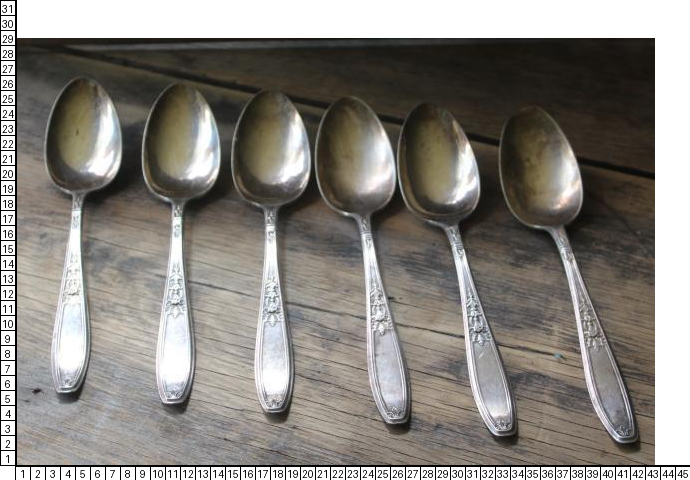
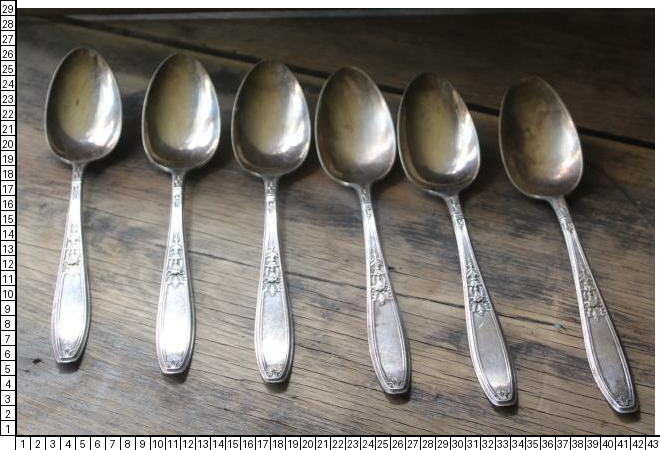
least amount of white possible

diff --git a/collab_sketch_with_label.py b/collab_sketch_with_label.py
@@ -1662,18 +1662,13 @@ def calculate_dynamic_grid_size(image_width: int, image_height: int, cell_size: 
     Returns:
         tuple: (grid_res_x, grid_res_y, grid_width, grid_height)
     """
-    # Calculate grid cells needed to fit the image exactly (no padding on bottom/left)
-    # Add some extra cells for annotations on top and right
-    extra_cells_right = 2  # Extra cells for annotations on the right
-    extra_cells_top = 2    # Extra cells for annotations on the top
+    # Calculate exact cells needed to fit the image (round up fractional cells)
+    min_cells_x = (image_width + cell_size - 1) // cell_size  # Ceiling division
+    min_cells_y = (image_height + cell_size - 1) // cell_size  # Ceiling division
     
-    # Calculate minimum cells needed for image
-    min_cells_x = (image_width + cell_size - 1) // cell_size
-    min_cells_y = (image_height + cell_size - 1) // cell_size
-    
-    # Add extra cells for annotation space
-    grid_res_x = max(min_grid, min(max_grid, min_cells_x + extra_cells_right))
-    grid_res_y = max(min_grid, min(max_grid, min_cells_y + extra_cells_top))
+    # Use exact cells needed, no extra padding
+    grid_res_x = max(min_grid, min(max_grid, min_cells_x))
+    grid_res_y = max(min_grid, min(max_grid, min_cells_y))
     
     # utils.py adds +1 for header automatically, so final grid dimensions are:
     grid_width = (grid_res_x + 1) * cell_size  # utils.py calculation
